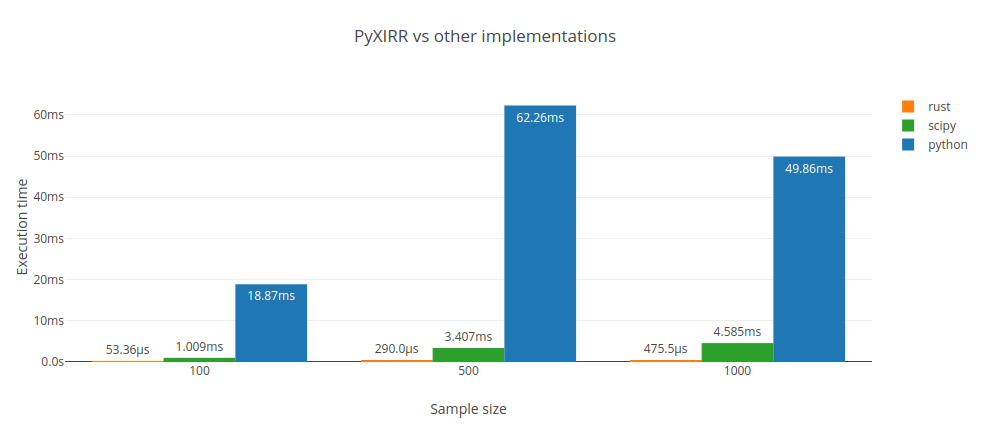
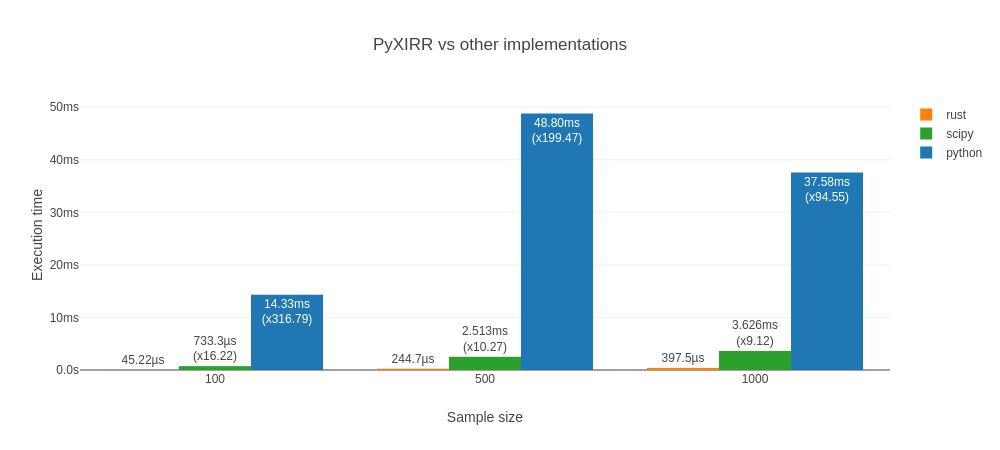
update bench chart

diff --git a/docs/bench/main.js b/docs/bench/main.js
@@ -22,25 +22,40 @@
     return bench;
   });
 
-  var formatDuration = function (x) {
+  const formatRatio = (x) => {
+    return "x" + Plotly.d3.format("0.2f")(x);
+  };
+  const formatDuration = (x) => {
     return Plotly.d3.format("0.4s")(x.value / 1e9) + "s";
   };
 
-  let cmpChartData = _(lastBenches)
+  const cmpChartData = _(lastBenches)
     .orderBy(["implCode", "value"])
     .groupBy("impl")
-    .map((group) => ({
-      x: _.map(group, "sample_size"),
-      y: _.map(group, (x) => x.value / 1e9), // convert from ns to sec
-      name: group[0].impl,
+    .map((impl) => ({
+      x: _.map(impl, "sample_size"),
+      y: _.map(impl, (x) => x.value / 1e9), // convert from ns to sec
+      name: impl[0].impl,
       type: "bar",
-      text: _.map(group, formatDuration),
+      text: _.map(impl, (x, i) => {
+        let duration = formatDuration(x);
+
+        if (x.impl != "rust") {
+          const group = _.filter(lastBenches, {
+            impl: "rust",
+            sample_size: x.sample_size,
+          });
+          const ratio = formatRatio(x.value / group[0].value);
+          duration += `<br>(${ratio})`;
+        }
+        return duration;
+      }),
       textposition: "auto",
       hoverinfo: "none",
     }))
     .value();
 
-  var cmpLayout = {
+  const cmpLayout = {
     title: "PyXIRR vs other implementations",
     barmode: "group",
     xaxis: {
@@ -60,7 +75,7 @@
 
   Plotly.newPlot("comparison", cmpChartData, cmpLayout);
 
-  var compiled = _.template(`
+  const compiled = _.template(`
     <tr>
         <th>Implementation</th>
         <th>Sample size</th>
@@ -80,7 +95,7 @@
     format: formatDuration,
   });
 
-  let perfChartData = [
+  const perfChartData = [
     {
       y: _(benches)
         .map("benches")
@@ -93,7 +108,7 @@
     },
   ];
 
-  var perfLayout = {
+  const perfLayout = {
     title: "PyXIRR performance over time",
     barmode: "group",
     xaxis: {
